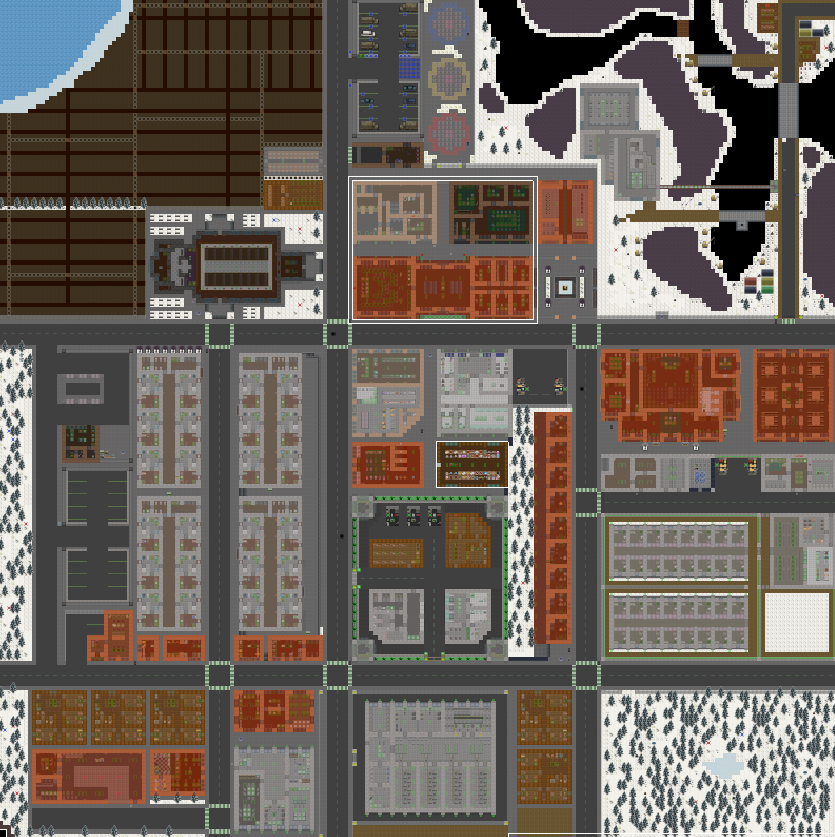
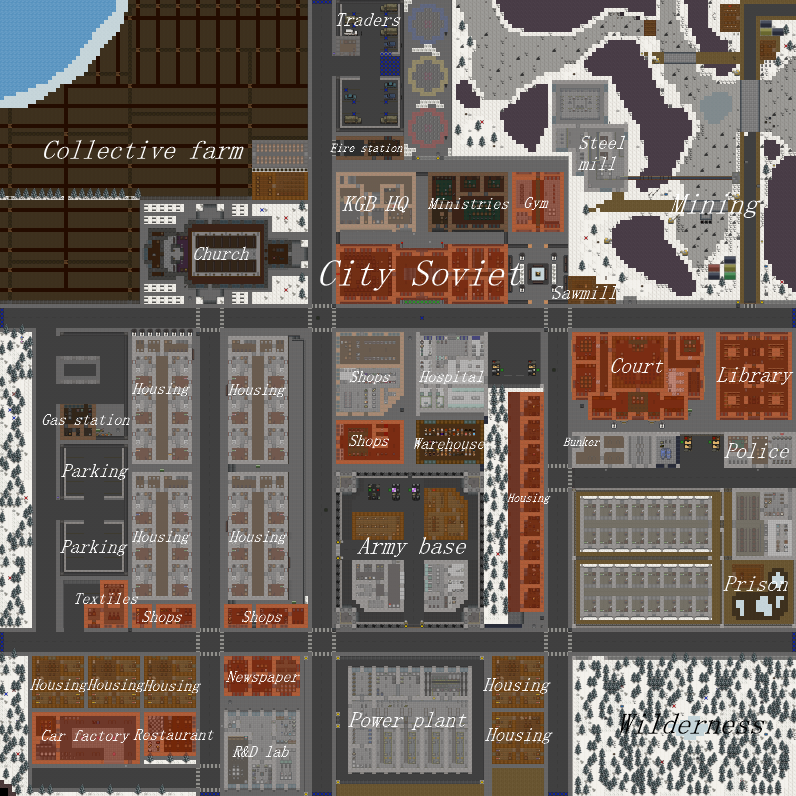
Merge pull request #99 from Terra1/master
Wiki update for Pepelsibirsk

Pull request: Wiki update for Pepelsibirsk

Changed region(s): [[0.0, 0.0, 1.0, 1.0], [0.2714, 0.4824, 0.3618, 0.5427], [0.2714, 0.5729, 0.3015, 0.603]]

diff --git a/src/maps/Pepelsibirsk.md b/src/maps/Pepelsibirsk.md
@@ -15,6 +15,8 @@ Pepelsibirsk has several special mechanics to take into consideration.
 # Map
 <img src="../images/Pepelsibirsk.png">
 
+_Everything past this point consists of suggestions and additional info about the map._
+
 # Politics
 *These are just RP suggestions - feel free to come up with your own system of government. Note, however, that the following wiki is written with the historical system in mind.*
 
@@ -68,11 +70,11 @@ There are other settlements and powers which can be traded with. You must mainta
 
 ### Pepelsibirsk-1
 Unrelated to Pepelsibirsk itself, this is a military settlement. You may purchase weapons from it. 
-- If relations with them are low, they will refuse to sell you things.
+- If relations with them are low, they will refuse to sell you things, and will periodically launch invasions.
 
 ### Narodnyygorod
 A small town located near Pepelsibirsk, containing a port. It is somewhat wealthy, but maintains a defensive military posture. 
-- If relations with it are low, they will refuse to trade with you.
+- If relations with them are low, they will refuse to trade with you.
 
 They are your only source of rubles.
 
@@ -99,7 +101,7 @@ Diplomatic relations are naturally raised via trading, and lowered by scams and 
 
 - Purchasing items from a trader or buying/selling imports/exports will increase relations by 0.02 per ruble spent or earned.
 - You can kill visiting traders to make them drop valuable items. This will immediately reduce relations by between 10 and 25.
-- You can scam Pepelsibirsk-1 and Narodnyygorod out of their money by choosing not to pay for imported goods. This will reduce relations by 0.08 per cost of the crate in rubles.
+- You can scam Pepelsibirsk-1 and Narodnyygorod out of their money by choosing not to pay for imported goods. This will reduce relations by 0.08 per ruble.
 
 Relations go from 0 to 100, anything below 25 counting as hostile.
 
@@ -246,24 +248,23 @@ Socialism is defined as the philosophical belief in the concept of classes and c
 ### Social Democracy
 Social Democrats believe in western-style liberal democracy and capitalism, but believe in regulation and a strong welfare state to ensure good living conditions for the working class. Traditionally, they also believe that these reforms will eventually produce an egalitarian and socialist society.
 
-### Menshevism
-Similar to Social Democrats, but with the additional beliefs in workplace democracy (Soviets/Councils) and philosophical anti-capitalism (although they still support a market system).
+### Center-Marxism
+Similar to Social Democrats, Center-Marxists believe in a middle road between revolutionary socialism and reformist socialism (i.e. Social Democracy). What exactly Center-Marxism _is_ manifests differently from party to party. Examples include the historical German SPD during the interwar era, and the Mensheviks.
 
 ### Right-Communism
 The politics of Deng Xiaoping and Nikolai Bukharin. Combines the belief in workplace democracy and a single-party state with a "socialist market economy", claiming that true communism can only be achieved after a lengthy period of capitalism.
 
 ### Marxism-Leninism
-The official ideology of the Soviet Union. Closer to left-communism than right-communism, supporting a single-party state and a fully state-planned economy. Traditionally opposed to a cult of personality and in favour of collective leadership, although the Stalinist faction (previously dominant) within it prefers a strong leader acting as a de-facto dictator.
+As the official ideology of the Soviet Union, Marxism-Leninism supports a single-party state and a fully state-planned economy. It is traditionally opposed to a cult of personality and in favour of collective leadership, although the Stalinist faction (previously dominant) within it prefers a strong leader acting as a de-facto dictator.
 
-The main distinguishing factors of it is support for "Socialism in One Country" (disavowing world revolution) and a large top-heavy bureaucracy.
+The main distinguishing factors of it is support for "Socialism in One Country" (disavowing immediate world revolution) and a large, top-heavy bureaucracy.
 
-The politics of Mao Zedong are typically placed somewhere in-between Left-Communism and Marxism-Leninism - it is referred to as Maoism, and is a more agrarian and anti-bureaucratic branch of Stalinism.
+The politics of Mao Zedong, or Maoism, is a more agrarian and anti-bureaucratic branch of Stalinism.
 
 ### Left-Communism
-The politics of Leon Trotsky and the originator of most Marxist-Leninist policies. It is distinguished from Marxism-Leninism by a fervent belief in the necessity of world revolution and opposition to an unelected bureaucracy.
+Left-communism differs from party to party, but it usually manifests as a critique of Marxism-Leninism from a theoretical perspective, advocating for fierce internationalism and a rejection of participation in liberal-democratic parliaments. It is typically also anti-Stalinist, and varies in authoritarianism.
 
 ### Anarchism (Left)
-
 Anarcho-Communism. No Gods, no Masters! Often accused of being contradictory, but influential nonetheless. It supports worker cooperatives, the abolition of money and its replacement by mutual aid, the complete abolition of the state and its monopoly on violence, and local communes using a form of direct democracy for voluntary governance.
 
 ## Liberal Ideologies
@@ -293,7 +294,7 @@ The first half of this category focuses on ideologies which prioritize social co
 The latter half of this category has more in common with liberals, but is typically highly opposed to socialist egalitarianism and social policies.
 
 ### Fascism
-The combination of revolutionary nationalism, reactionary social policy, populism, and paternalistic welfare. Ironically, they tend to have a lot in common with more authoritarian socialists, and are primarily separated by social policies and the philosophies which back them. Examples include Mussolini's Italy, Peron's Argentina, Hitler's Germany, and Franco's Spain.
+Fascism is a combination of revolutionary nationalism, reactionary social policy, populism, corporatism, and paternalistic welfare. It is not truly reactionary, but is nevertheless situated on the far-right. Examples include Mussolini's Italy, Hitler's Germany, and Franco's Spain.
 
 ### Monarchism (Absolute/Semi-Constitutional)
 Support for a hereditary monarchy holding non-ceremonial absolute or executive power. Typically associated with reactionary social policy.
@@ -703,4 +704,4 @@ The ministers of these ministries are appointed by the President.[/small]<br>
 
 A map of the world as known to Pepelsibirsk in early 1976. The greyer a part of the map, the less those areas are under a recognizable centralized authority - though these areas are not typically lawless, instead ruled by roving gangs of bandits demanding protection money, small city-states, local councils, military forces engaged in brutal fighting, and disorganized rebels or guerillas fighting against central authority. Flags represent areas that are controlled as a central or federal government, whereas coats of arms represent governments that are highly decentralized and have no clear borders, claimed or unclaimed.
 
-Major conflicts include the recent civil war between the Turkestan Federal Republic and the Turkestan SFSR, the Japanese Civil War between communists and loyalists to the Yamato dynasty, and the Second Chinese Civil War, which began mere days ago after the launch and spectacular success of Project 'National Glory' by the Republic of China/Taiwan.
+Major conflicts include the recent civil war between the Central Asian Federal Republic and the Turkestan SFSR, the Japanese Civil War between communists and loyalists to the Yamato dynasty, and the Second Chinese Civil War, which began mere days ago after the launch and spectacular success of Project 'National Glory' by the Republic of China/Taiwan.